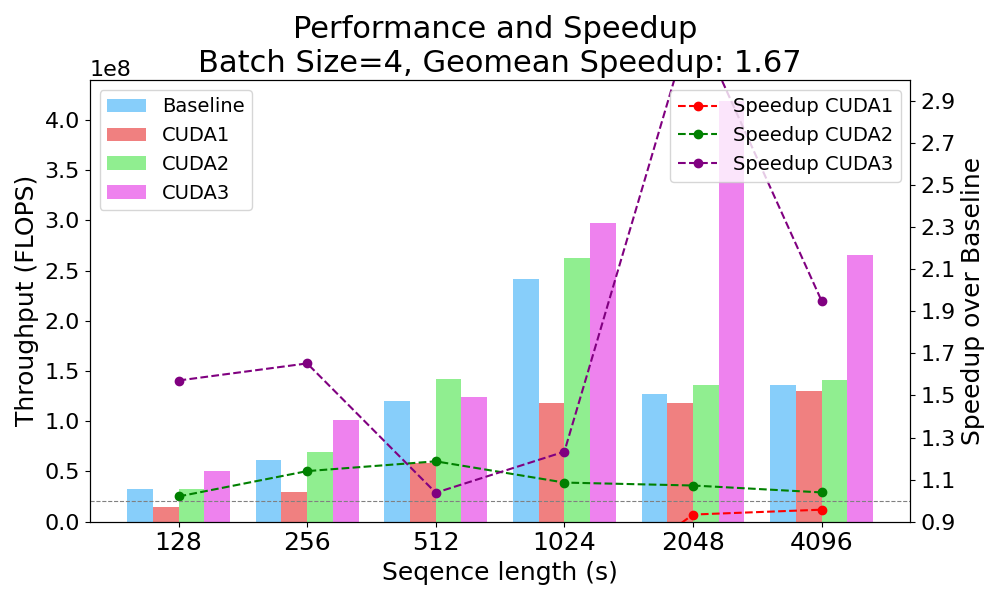
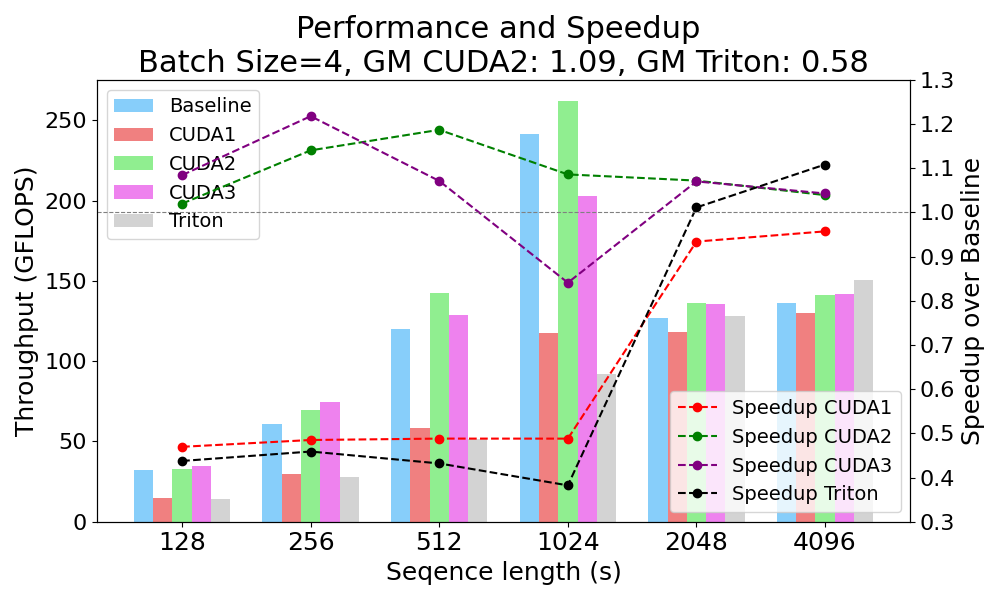
update with triton results and generate new plots

diff --git a/scripts/bz.py b/scripts/bz.py
@@ -24,6 +24,7 @@ def plot_grouped_bars_with_speedup(data, title, output_file, throughput : bool =
     cuda1 = data['cuda1(us)']
     cuda2 = data['cuda2(us)']
     cuda3 = data['cuda3(us)']
+    triton = data['triton(us)']
     FLOPs = data['FLOPs']
     
     if throughput:
@@ -31,43 +32,49 @@ def plot_grouped_bars_with_speedup(data, title, output_file, throughput : bool =
         cuda1 = FLOPs / cuda1 * 10**6 / 10**9
         cuda2 = FLOPs / cuda2 * 10**6 / 10**9
         cuda3 = FLOPs / cuda3 * 10**6 / 10**9
+        triton = FLOPs / triton * 10**6 / 10**9
 
     # Calculate speedup over default
     if throughput:
         speedup_cuda1 = cuda1 / default 
         speedup_cuda2 = cuda2 / default
         speedup_cuda3 = cuda3 / default
+        triton_speedup = triton / default
         geomean_cuda1 = np.exp(np.mean(np.log(speedup_cuda1)))
         geomean_cuda2 = np.exp(np.mean(np.log(speedup_cuda2)))
         geomean_cuda3 = np.exp(np.mean(np.log(speedup_cuda3)))
+        geomean_triton = np.exp(np.mean(np.log(triton_speedup)))
     else:
         speedup_cuda1 = default / cuda1
         speedup_cuda2 = default / cuda2
         speedup_cuda3 = default / cuda3
+        triton_speedup = default / triton
         geomean_cuda1 = np.exp(np.mean(np.log(speedup_cuda1)))
         geomean_cuda2 = np.exp(np.mean(np.log(speedup_cuda2)))
         geomean_cuda3 = np.exp(np.mean(np.log(speedup_cuda3)))
+        geomean_triton = np.exp(np.mean(np.log(triton_speedup)))
 
     x = np.arange(len(labels))  # Label locations
-    width = 0.20  # Width of the bars
+    width = 0.15  # Width of the bars
 
     fig, ax1 = plt.subplots(figsize=(10, 6))
 
     # Bar plots for execution times
-    ax1.bar(x - 1.5*width, default, width, label='Baseline', color='lightskyblue')
-    ax1.bar(x - 0.5*width, cuda1, width, label='CUDA1', color='lightcoral')
+    ax1.bar(x - 2*width, default, width, label='Baseline', color='lightskyblue')
+    ax1.bar(x - 1*width, cuda1, width, label='CUDA1', color='lightcoral')
     # set ax1.bar color to light orange
-    ax1.bar(x + 0.5*width, cuda2, width, label='CUDA2', color='lightgreen')
+    ax1.bar(x + 0*width, cuda2, width, label='CUDA2', color='lightgreen')
     # ax1.bar(x + 0.5*width, cuda2, width, label='CUDA2', color='green')
     # set ax1.bar color to light purple
-    ax1.bar(x + 1.5*width, cuda3, width, label='CUDA3', color='violet')
+    ax1.bar(x + 1*width, cuda3, width, label='CUDA3', color='violet')
+    ax1.bar(x + 2*width, triton, width, label='Triton', color='lightgray')
 
     ax1.set_xlabel('Batch Size (b)', fontsize=18)
     if throughput:
         ax1.set_ylabel('Throughput (GFLOPS)', fontsize=18)
     else:
         ax1.set_ylabel('Time (us)', fontsize=18)
-    ax1.set_title(f"{title}, Geomean Speedup: {geomean_cuda2:.2f}", fontsize=22)
+    ax1.set_title(f"{title}, GM CUDA2: {geomean_cuda2:.2f}, GM Triton: {geomean_triton:.2f}", fontsize=22)
     ax1.set_xticks(x)
     ax1.set_xticklabels(labels, fontsize=18)
     ax1.tick_params(axis='y', labelsize=16)
@@ -79,12 +86,13 @@ def plot_grouped_bars_with_speedup(data, title, output_file, throughput : bool =
     ax2.plot(x, speedup_cuda1, label='Speedup CUDA1', color='red', marker='o', linestyle='--')
     ax2.plot(x, speedup_cuda2, label='Speedup CUDA2', color='green', marker='o', linestyle='--')
     ax2.plot(x, speedup_cuda3, label='Speedup CUDA3', color='purple', marker='o', linestyle='--')
+    ax2.plot(x, triton_speedup, label='Speedup Triton', color='black', marker='o', linestyle='--')
     ax2.set_ylabel('Speedup over Baseline', fontsize=18)
-    ax2.legend(loc='upper right', fontsize=14)
+    ax2.legend(loc='lower right', fontsize=14)
     
     # limit secondary y-axis to 0.9 to 1.3
-    ax2.set_ylim(0.8, 1.2)
-    ax2.set_yticks(np.arange(0.8, 1.3, 0.1))
+    ax2.set_ylim(0.3, 1.3)
+    ax2.set_yticks(np.arange(0.3, 1.4, 0.1))
     
     # set y ticks fontsize to 18
     ax2.tick_params(axis='y', labelsize=16)

diff --git a/scripts/seq.py b/scripts/seq.py
@@ -24,6 +24,7 @@ def plot_grouped_bars_with_speedup(data, title, output_file, throughput : bool =
     cuda1 = data['cuda1(us)']
     cuda2 = data['cuda2(us)']
     cuda3 = data['cuda3(us)']
+    triton = data['triton(us)']
     FLOPs = data['FLOPs']
     
     if throughput:
@@ -31,15 +32,18 @@ def plot_grouped_bars_with_speedup(data, title, output_file, throughput : bool =
         cuda1 = FLOPs / cuda1 * 10**6 / 10**9
         cuda2 = FLOPs / cuda2 * 10**6 / 10**9
         cuda3 = FLOPs / cuda3 * 10**6 / 10**9
+        triton = FLOPs / triton * 10**6 / 10**9
 
     # Calculate speedup over default
     if throughput:
         speedup_cuda1 = cuda1 / default 
         speedup_cuda2 = cuda2 / default
         speedup_cuda3 = cuda3 / default
+        triton_speedup = triton / default
         geomean_cuda1 = np.exp(np.mean(np.log(speedup_cuda1)))
         geomean_cuda2 = np.exp(np.mean(np.log(speedup_cuda2)))
         geomean_cuda3 = np.exp(np.mean(np.log(speedup_cuda3)))
+        geomean_triton = np.exp(np.mean(np.log(triton_speedup)))
     else:
         speedup_cuda1 = default / cuda1
         speedup_cuda2 = default / cuda2
@@ -47,24 +51,26 @@ def plot_grouped_bars_with_speedup(data, title, output_file, throughput : bool =
         geomean_cuda1 = np.exp(np.mean(np.log(speedup_cuda1)))
         geomean_cuda2 = np.exp(np.mean(np.log(speedup_cuda2)))
         geomean_cuda3 = np.exp(np.mean(np.log(speedup_cuda3)))
+        geomean_triton = np.exp(np.mean(np.log(triton_speedup)))
 
     x = np.arange(len(labels))  # Label locations
-    width = 0.20  # Width of the bars
+    width = 0.15  # Width of the bars
 
     fig, ax1 = plt.subplots(figsize=(10, 6))
 
     # Bar plots for execution times
-    ax1.bar(x - 1.5*width, default, width, label='Baseline', color='lightskyblue')
-    ax1.bar(x - 0.5*width, cuda1, width, label='CUDA1', color='lightcoral')
-    ax1.bar(x + 0.5*width, cuda2, width, label='CUDA2', color='lightgreen')
-    ax1.bar(x + 1.5*width, cuda3, width, label='CUDA3', color='violet')
+    ax1.bar(x - 2*width, default, width, label='Baseline', color='lightskyblue')
+    ax1.bar(x - 1*width, cuda1, width, label='CUDA1', color='lightcoral')
+    ax1.bar(x + 0*width, cuda2, width, label='CUDA2', color='lightgreen')
+    ax1.bar(x + 1*width, cuda3, width, label='CUDA3', color='violet')
+    ax1.bar(x + 2*width, triton, width, label='Triton', color='lightgray')
 
     ax1.set_xlabel('Seqence length (s)', fontsize=18)
     if throughput:
         ax1.set_ylabel('Throughput (GFLOPS)', fontsize=18)
     else:
         ax1.set_ylabel('Time (ms)', fontsize=18)
-    ax1.set_title(f"{title}, Geomean Speedup: {geomean_cuda2:.2f}", fontsize=22)
+    ax1.set_title(f"{title}, GM CUDA2: {geomean_cuda2:.2f}, GM Triton: {geomean_triton:.2f}", fontsize=22)
     ax1.set_xticks(x)
     ax1.set_xticklabels(labels, fontsize=18)
     ax1.tick_params(axis='y', labelsize=16)
@@ -76,12 +82,13 @@ def plot_grouped_bars_with_speedup(data, title, output_file, throughput : bool =
     ax2.plot(x, speedup_cuda1, label='Speedup CUDA1', color='red', marker='o', linestyle='--')
     ax2.plot(x, speedup_cuda2, label='Speedup CUDA2', color='green', marker='o', linestyle='--')
     ax2.plot(x, speedup_cuda3, label='Speedup CUDA3', color='purple', marker='o', linestyle='--')
+    ax2.plot(x, triton_speedup, label='Speedup Triton', color='black', marker='o', linestyle='--')
     ax2.set_ylabel('Speedup over Baseline', fontsize=18)
-    ax2.legend(loc='upper right', fontsize=14)
+    ax2.legend(loc='lower right', fontsize=14)
     
     # limit secondary y-axis to 0.9 to 1.3
-    ax2.set_ylim(0.8, 1.2)
-    ax2.set_yticks(np.arange(0.8, 1.3, 0.1))
+    ax2.set_ylim(0.3, 1.3)
+    ax2.set_yticks(np.arange(0.3, 1.4, 0.1))
     
     # set y ticks fontsize to 18
     ax2.tick_params(axis='y', labelsize=16)

diff --git a/test_tiny_llama_rotary_embedding.py b/test_tiny_llama_rotary_embedding.py
@@ -7,7 +7,7 @@ import time
 import nvtx
 
 BENCHMARK_FREQUENCY = 100
-batch_size = 1
+batch_size = 32
 
 dtype = torch.float32
 # dtype = torch.bfloat16
@@ -134,11 +134,12 @@ for i in range(BENCHMARK_FREQUENCY):
     # execute without gradient tracking
     with torch.no_grad():
         # start = nvtx.start_range(message="custom_rope", color="blue")
-        # xq = apply_rotary_emb_func(q, cos, sin, True, False)
-        # xk = apply_rotary_emb_func(k, cos, sin, True, False)
         
-        xq = apply_rotary_emb_triton(q, cos, sin, True, False)
-        xk = apply_rotary_emb_triton(k, cos, sin, True, False)
+        xq = apply_rotary_emb_func3(q, cos, sin, True, False)
+        xk = apply_rotary_emb_func3(k, cos, sin, True, False)
+        
+        # xq = apply_rotary_emb_triton(q, cos, sin, True, False)
+        # xk = apply_rotary_emb_triton(k, cos, sin, True, False)
         
         torch.cuda.synchronize()
         # nvtx.end_range(start)
@@ -154,11 +155,11 @@ for i in range(BENCHMARK_FREQUENCY):
 # print('=========')
 # print(q)
 # print('=========')
-# print(xq)
+print(xq)
 
 
 # find median of execution time
 median_time = sorted(execution_times)[len(execution_times) // 2]
 
 # print median time with 2 decimal places
-print('median time taken:', f"{median_time:.2f}", 'ms')
+print('median time taken:', f"{median_time:.2f}", 'us')
